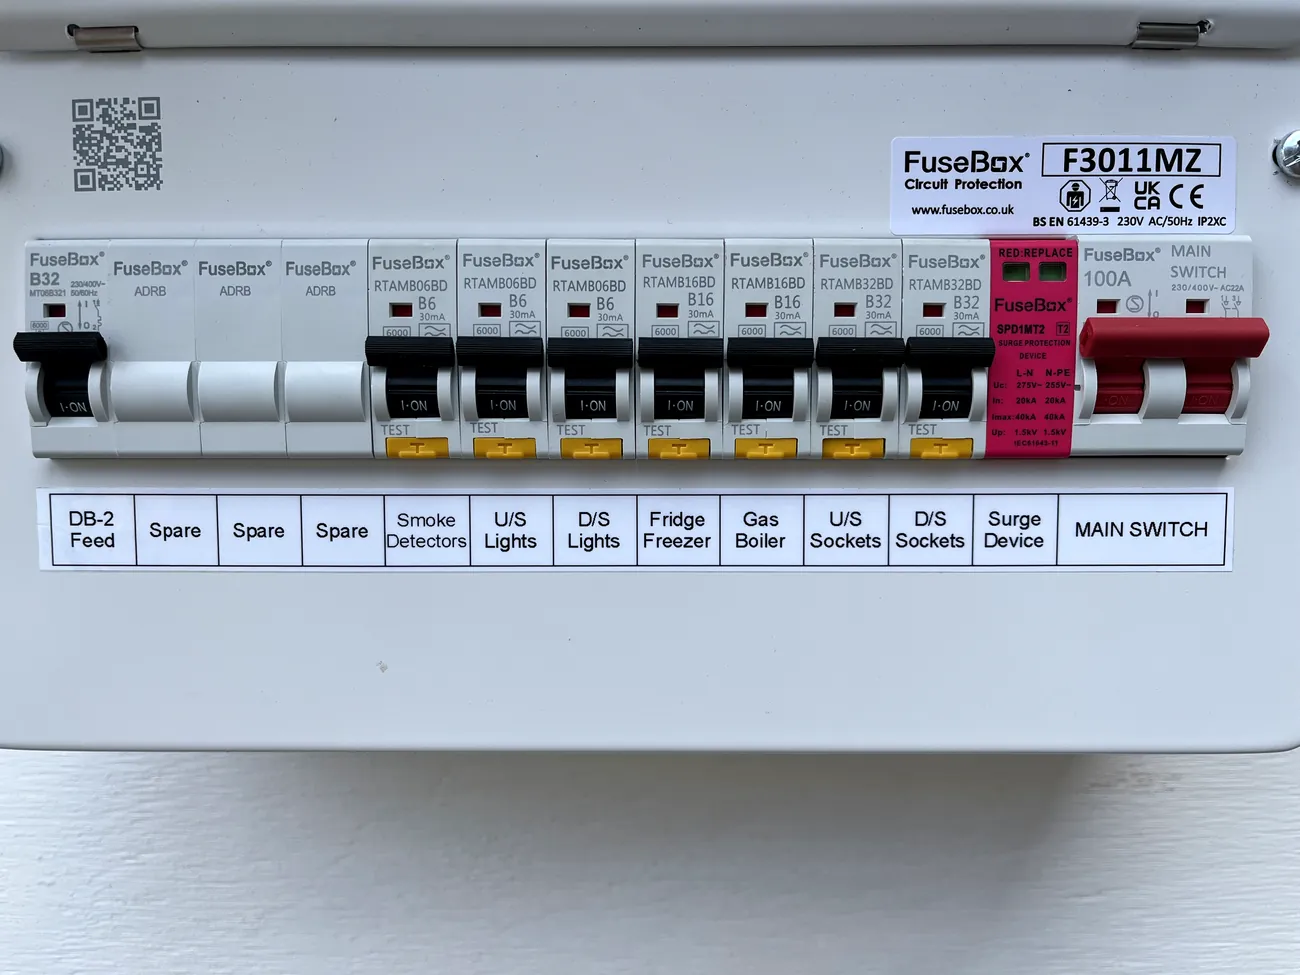
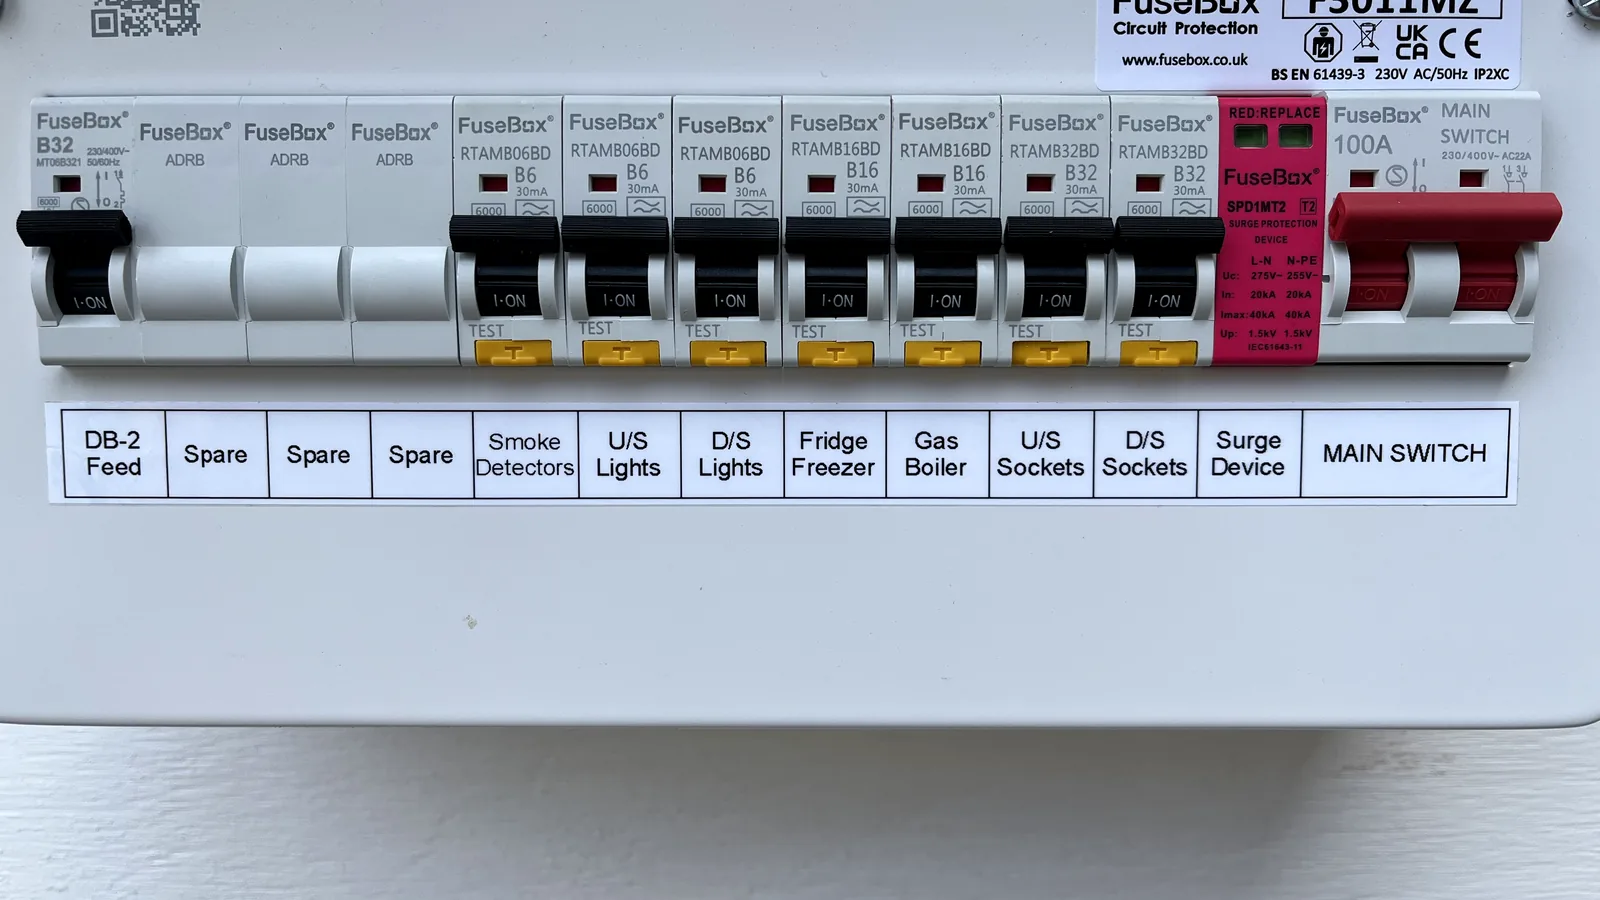
Consumer-unit page: re-crop centrepiece board photo to 16:9 (flap removed), matching the homepage hero

diff --git a/public/pages/consumer-unit-upgrade-bournemouth.html b/public/pages/consumer-unit-upgrade-bournemouth.html
@@ -116,7 +116,7 @@
       <p class="lede-page">Your old fusebox swapped for a modern, safer board. <span class="text-highlight">From &pound;625, supplied and fitted.</span> A new RCBO board trips one circuit at a time instead of cutting all your power. No VAT to add. No markup on materials. A 10-year guarantee in writing.</p>
 
       <figure class="board-figure">
-        <img src="/assets/img/consumer-unit-rcbo-labelled-circuits.webp" width="1300" height="975" alt="A 12-way FuseBox RCBO consumer unit with every circuit clearly labelled: lights, sockets, smoke detectors, boiler and surge protection">
+        <img src="/assets/img/consumer-unit-rcbo-labelled-circuits.webp" width="1600" height="900" alt="A 12-way FuseBox RCBO consumer unit with every circuit clearly labelled: lights, sockets, smoke detectors, boiler and surge protection">
         <figcaption>A finished RCBO board. Every circuit has its own trip, clearly labelled.</figcaption>
       </figure>
 
